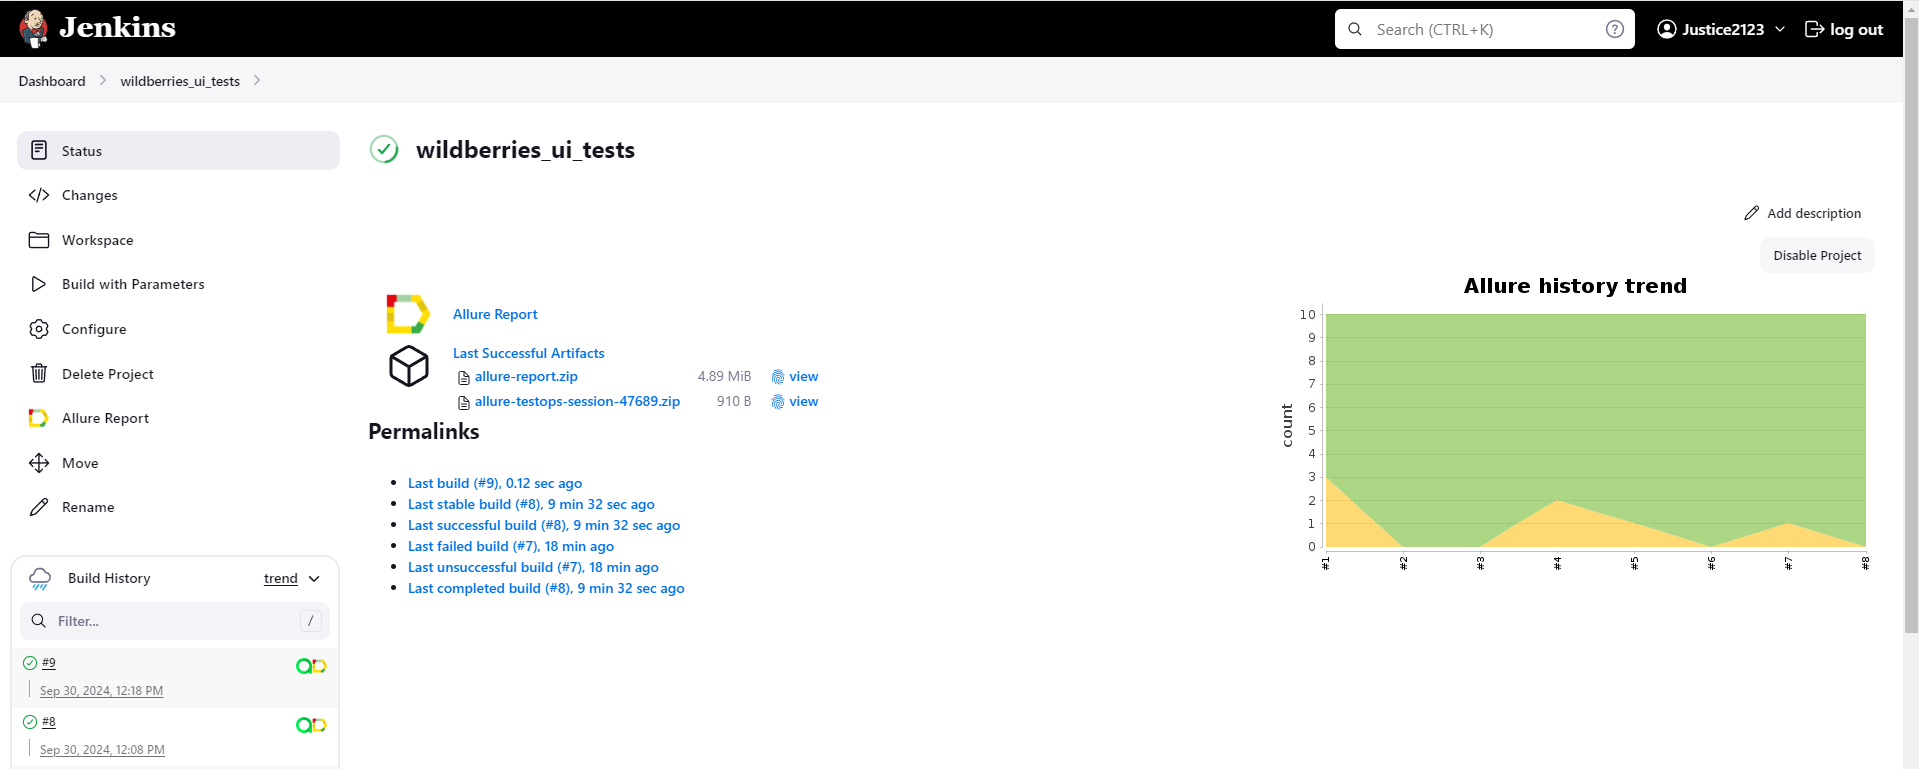
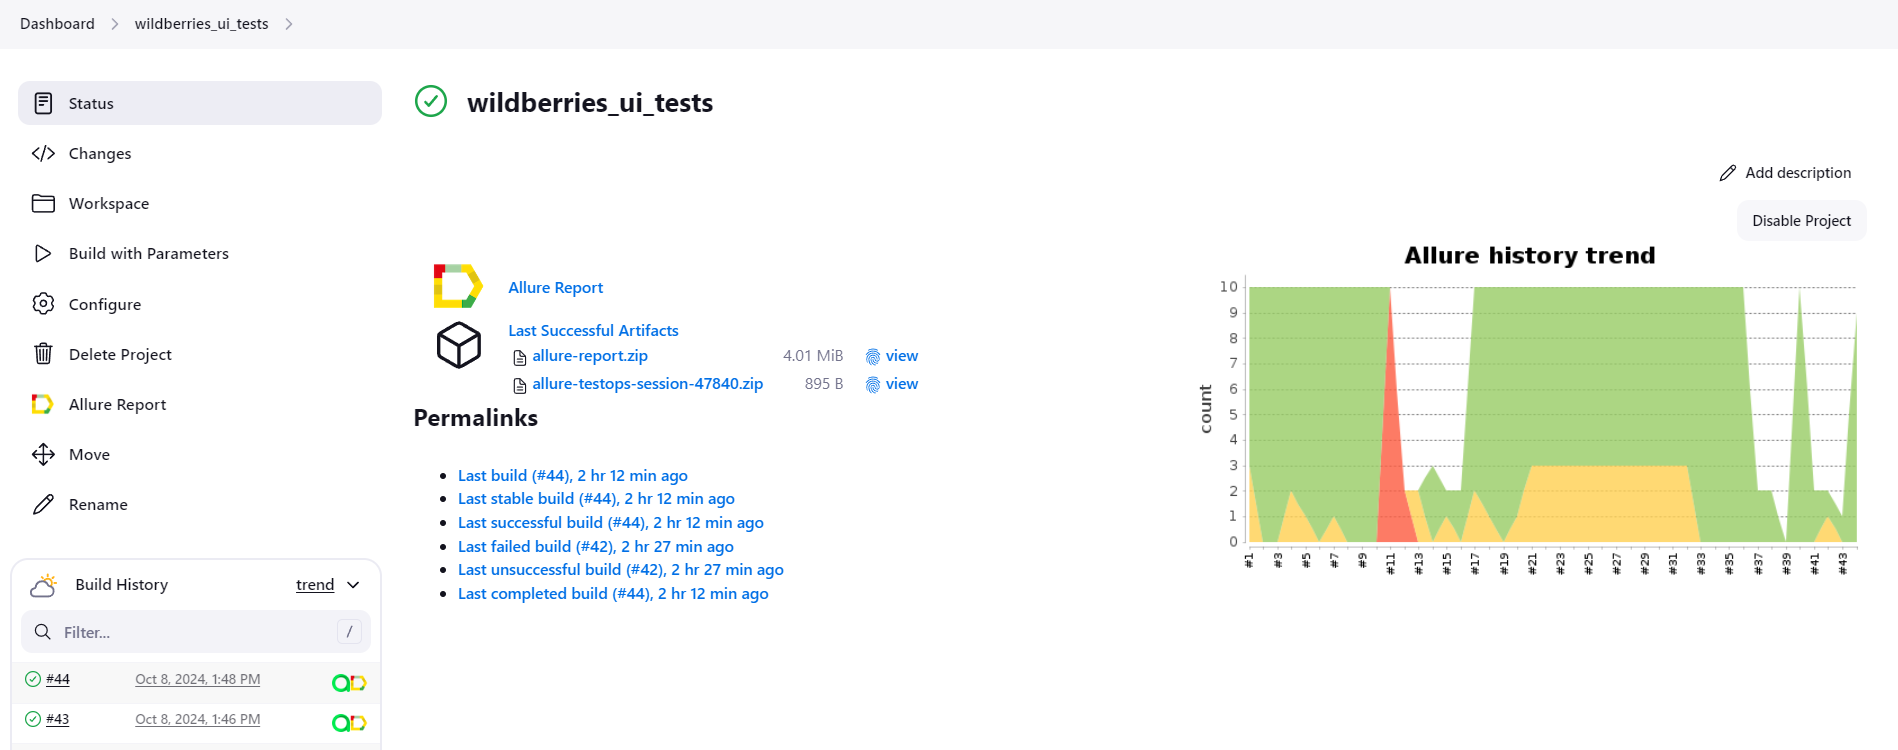
added corrections

diff --git a/README.md b/README.md
@@ -65,7 +65,7 @@ gradle  clean test -Dtype=wildberiesTests
 <a target="_blank" href="https://jenkins.autotests.cloud/job/wildberries_ui_tests/"><img title="Jenkins Build" src="media/scr/jenkins.png"></a>
 </p>
 
-### <img src="media/logo/Allure_Report.svg" title="Allure Report" width="30" heigth="30"/> Пример <a target="allure_report" href="https://jenkins.autotests.cloud/job/wildberries_ui_tests/10/allure/"> Allure-отчета </a>
+### <img src="media/logo/Allure_Report.svg" title="Allure Report" width="30" heigth="30"/> Пример <a target="allure_report" href="https://jenkins.autotests.cloud/job/wildberries_ui_tests/allure/"> Allure-отчета </a>
 ___
 #### Overview
 
@@ -76,7 +76,7 @@ ___
 #### Результат выполнения теста
 
 <p align="center">
-<a target="_blank" href="https://jenkins.autotests.cloud/job/wildberries_ui_tests/10/allure/#suites/3e3271e214287bade4074a3eb3dae433"><img title="Test Results in Alure" src="media/scr/test_results.png"></a>
+<a target="_blank" href="https://jenkins.autotests.cloud/job/wildberries_ui_tests/allure/#suites/3e3271e214287bade4074a3eb3dae433"><img title="Test Results in Alure" src="media/scr/allureSuites.png"></a>
 </p>
 
 #### <img src="media/logo/AllureTestOps.svg" title="Allure TestOps" width="30"/> Интеграция с <a title="_allure_testOps" href="https://allure.autotests.cloud/launch/42408/tree?search=W3siaWQiOiJzdGF0dXMiLCJ0eXBlIjoidGVzdFN0YXR1c0FycmF5IiwidmFsdWUiOlsicGFzc2VkIl19XQ%3D%3D&treeId=0">Allure TestOps</a>
